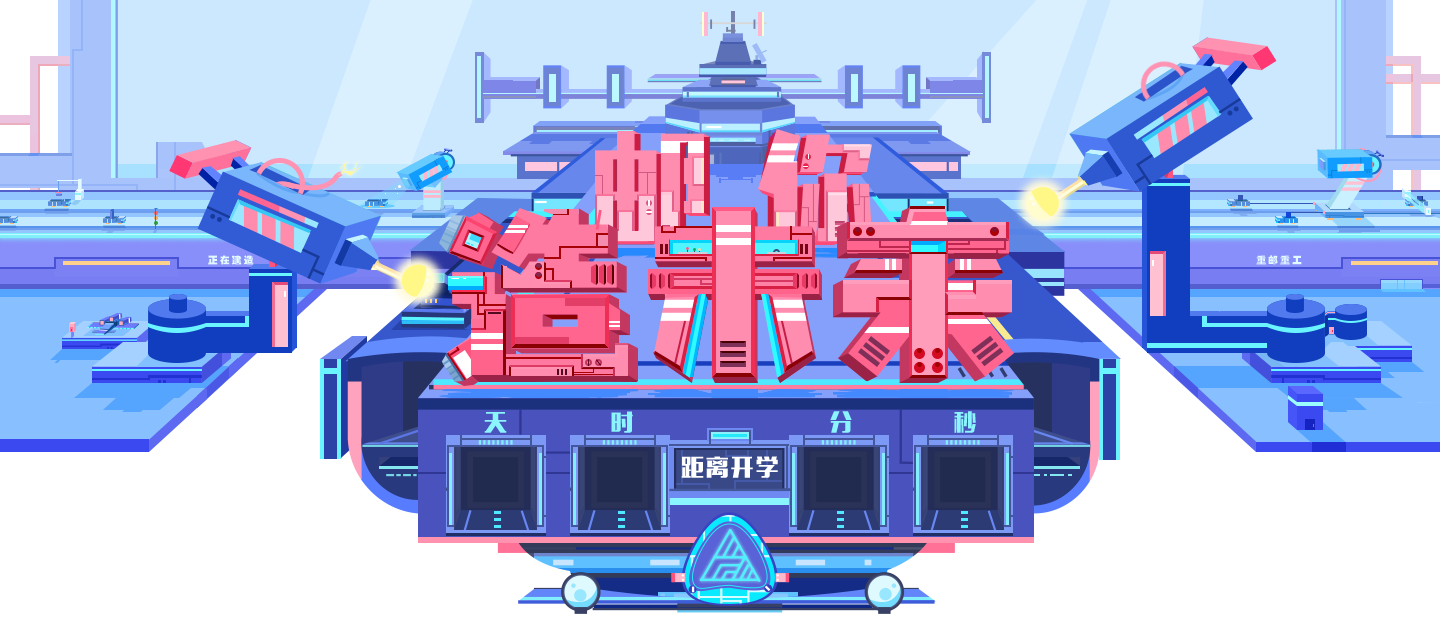
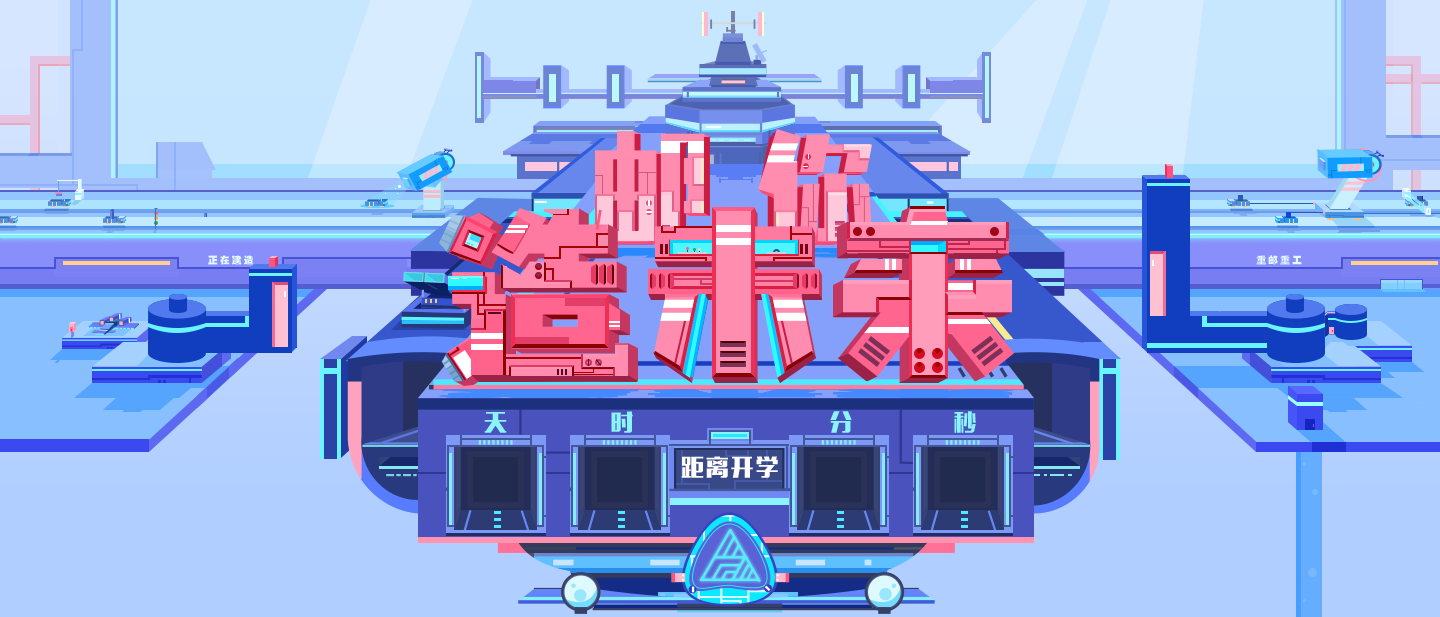
drill rotate, light show up

diff --git a/src/components/Banner.vue b/src/components/Banner.vue
@@ -1,6 +1,12 @@
 <template>
   <div id="banner">
-    <img src="../assets/img/Banner/light.png" class="light">
+    <img src="../assets/img/Banner/light.png" class="light" v-show="show">
+    <div class="left-drill">
+      <div class="left-light"></div>
+    </div>
+    <div class="right-drill">
+      <div class="right-light"></div>
+    </div>
     <ul class="time_ul">
       <li class="day" ref="day">{{ d }}</li>
       <li class="hour" ref="hour">{{ h }}</li>
@@ -15,6 +21,7 @@ export default {
   name: 'banner',
   data() {
     return {
+      show: false,
       d: '1',
       h: '2',
       m: '3',
@@ -23,15 +30,22 @@ export default {
   },
   mounted() {
     this.countTime()
+    this.showTime()
   },
   destroyed() {
     clearTimeout(this.timer)
+    clearTimeout(this.showTimer)
   },
   methods: {
+    showTime() {
+      this.showTimer = setTimeout(() => {
+        this.show = true
+      }, 3000)
+    },
     countTime() {
       const date = new Date();
       const now = date.getTime();
-      const endDate = new Date('2019-9-10 23:23:23');
+      const endDate = new Date('2019-9-4 23:23:23');
       const end = endDate.getTime();
       const leftTime = end - now;
       if (leftTime >= 0) {
@@ -72,12 +86,51 @@ export default {
     position: absolute;
     left: 402px;
     top: 164px;
-    animation: changeColor 3s infinite;
+    animation: showUp 1s, changeColor 2s infinite 1s;
+  }
+  @keyframes showUp {
+    from { opacity: 0; }
+    to { opacity: 1; }
   }
   @keyframes changeColor {
-    0% { filter: saturate(50%) }
-    50% { filter: saturate(200%) }
-    100% { filter: saturate(50%) }
+    0% { filter: saturate(50%); }
+    50% { filter: saturate(200%); }
+    100% { filter: saturate(50%); }
+  }
+  .left-drill {
+    width: 227px;
+    height: 127px;
+    position: absolute;
+    top: 134px;
+    left: 142px;
+    transform: rotate(25deg);
+    transform-origin: 126px 127px;
+    background: url(../assets/img/Banner/left-drill.png);
+    animation: left-rotate 2s;
+  }
+  @keyframes left-rotate {
+    from { transform: rotate(-20deg); }
+    to { transform: rotate(25deg); }
+  }
+  .right-drill {
+    width: 230px;
+    height: 101px;
+    overflow: hidden;
+    position: absolute;
+    top: 73px;
+    right: 128px;
+    transform: rotate(-33deg);
+    transform-origin: 80px 100%;
+    background: url(../assets/img/Banner/right-drill.png);
+    animation: right-rotate 2s;
+  }
+  @keyframes right-rotate {
+    from {
+      transform: rotate(20deg);
+    }
+    to {
+      transform: rotate(-33deg);
+    }
   }
   .time_ul {
     list-style: none;

diff --git a/src/components/MyNav/NavLink.vue b/src/components/MyNav/NavLink.vue
@@ -2,10 +2,11 @@
   <div class="nav-link">
     <slot></slot>
     <div class="contents" v-if="contents.length">
-      <div class="filler"></div>
+      <div class="filler-top"></div>
       <div class="content" v-for="(content, index) of contents" :key="index">
         {{ content }}
       </div>
+      <div class="filler-bottom"></div>
     </div>
   </div>
 </template>
@@ -30,21 +31,25 @@ export default {
   font-size: $navFontSize;
   color: #fff;
   .contents {
-    .filler {
+    .filler-top {
       min-height: 15px;
       background: #21beff;
+    }
+    .filler-bottom {
+      min-height: 15px;
+      background: url(../../assets/img/Nav/NavLink-bottom.png);
     }
     transform: translate(0, -13px);
     transition: max-height .6s ease-out;
     overflow: hidden;
     max-height: 0;
     margin-left: 7px;
-    border: 2px solid #007fea;
+    border: 2px solid #3764e4;
     border-top: none;
     display: flex;
     width: 95px;
     flex-direction: column;
-    background: #21beff;
+    background: #66b9ff;
     .content {
       width: 91px;
       padding: 2px;
@@ -60,9 +65,9 @@ export default {
   .contents {
     max-height: 1000px;
     .content:hover {
-      color: #ff99b6;
+      color: #2d5eff;
       font-size: $navHoverFontSize;
-      background: #007fea;
+      background: #8aedff;
     }
   }
 }

diff --git a/src/components/MyNav/index.vue b/src/components/MyNav/index.vue
@@ -64,6 +64,8 @@ nav {
   position: fixed;
   top: 0;
   left: 0;
+  right: 0;
+  margin: 0 auto;
   z-index: 1;
   .logo {
     margin-right: 30px;

diff --git a/src/components/QRcode.vue b/src/components/QRcode.vue
@@ -13,7 +13,7 @@ export default {
 }
 </script>
 
-<style scoped>
+<style scoped lang="scss">
 .qrcode_left {
   width: 220px;
   height: 251px;

diff --git a/src/components/layout/MyHeader.vue b/src/components/layout/MyHeader.vue
@@ -20,7 +20,7 @@ export default {
 }
 </script>
 
-<style scoped>
+<style scoped lang="scss">
 div {
   background: #b0ceff;
 }
